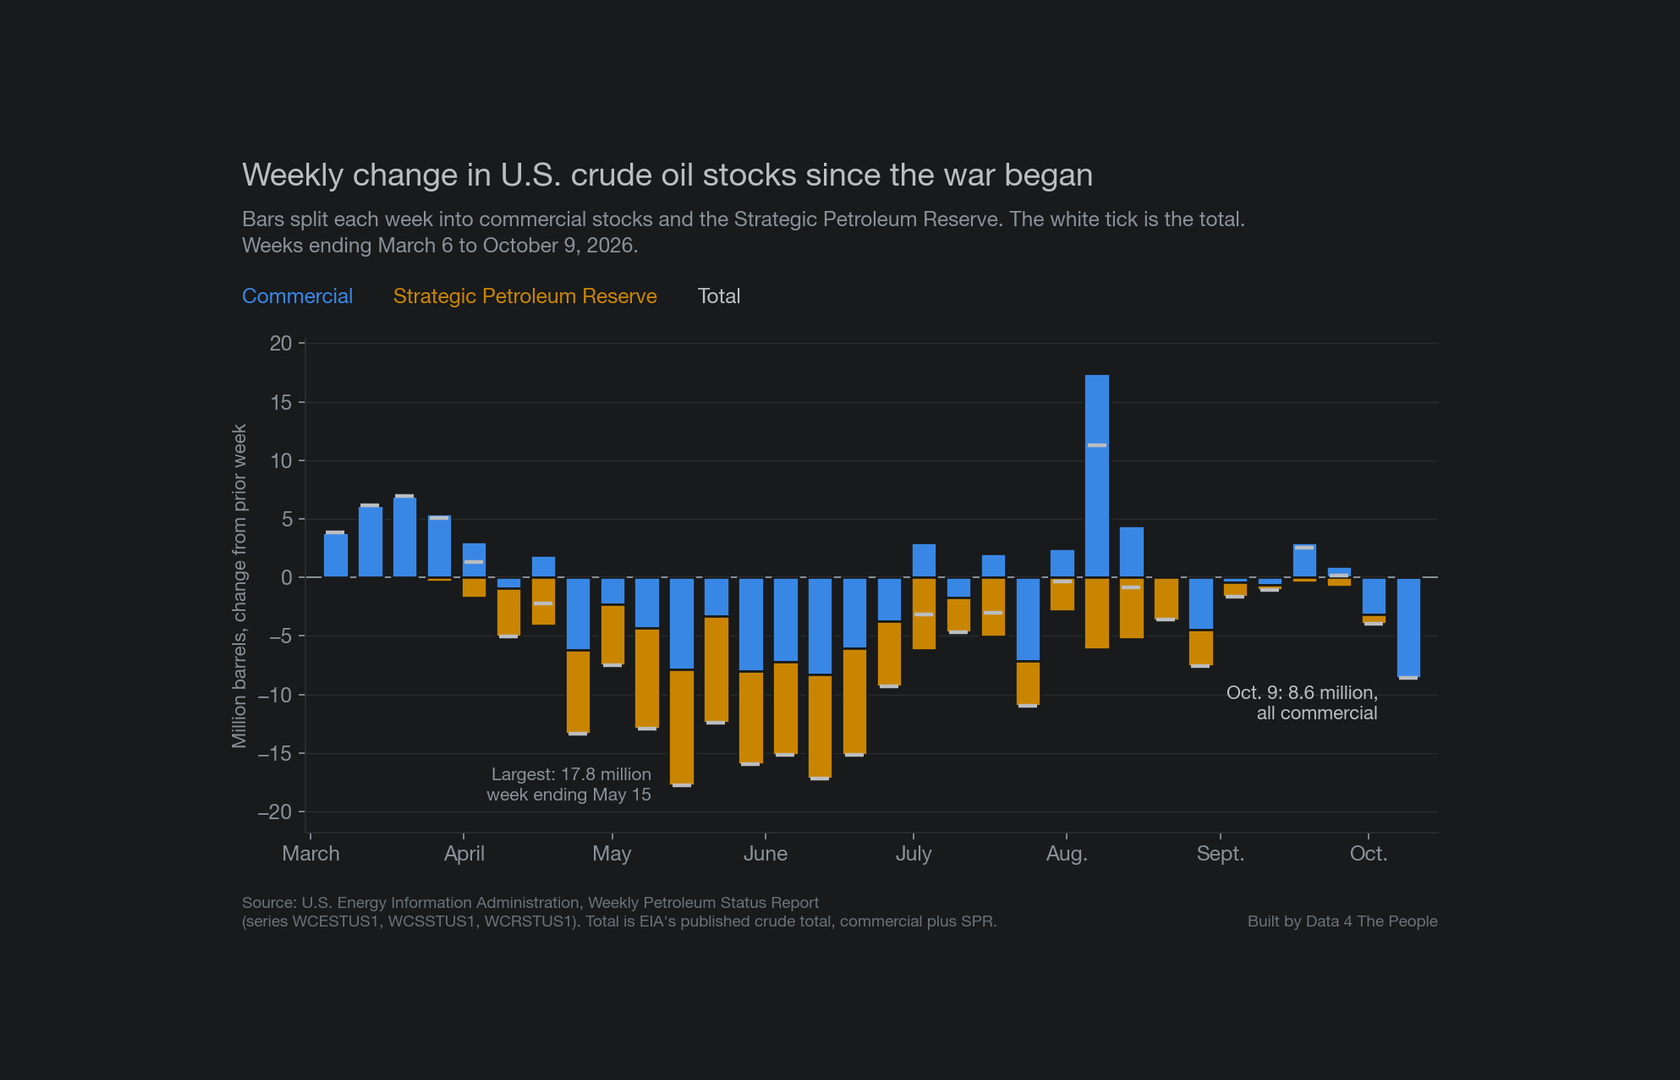
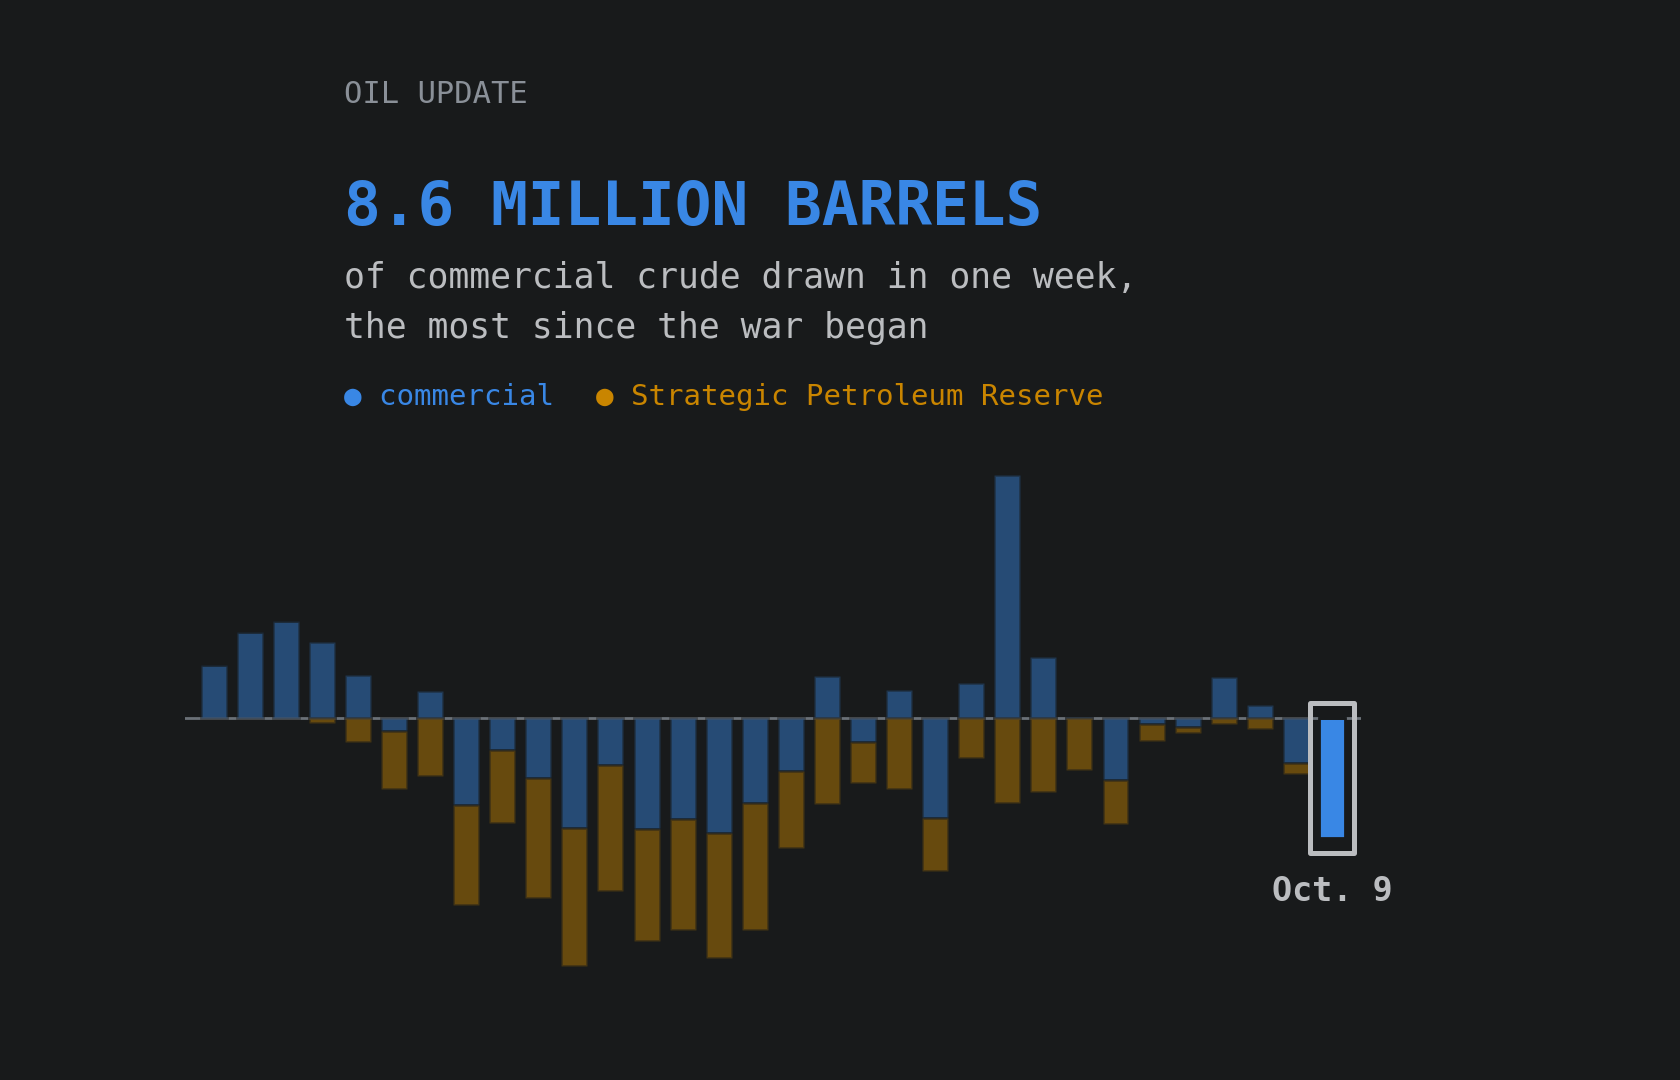
oil-draw-update: hero as its own render, latest week called out

diff --git a/scripts/hero.py b/scripts/hero.py
@@ -1,0 +1,91 @@
+"""Hero for oil-draw-update: the weekly crude draws chart as a picture, not a figure.
+
+Same bars and colors as images/01-weekly-crude-draws.png, but full frame with no axes or
+fine print, and a short lockup on a backing panel inside the crop-safe band (Prismic's
+square crop of a 1680x1080 keeps only x 0.18-0.82). Modeled on the SNAP_Locations
+series heroes (src/analysis/hero.py). Every number is read from the same pull.
+
+    python scripts/hero.py
+"""
+import sys, os
+sys.path.insert(0, os.path.dirname(__file__))
+import pandas as pd
+import matplotlib
+matplotlib.use("Agg")
+import matplotlib.pyplot as plt
+from plot_style import SURFACE, INK, INK_DIM, MUTED
+from weekly_draws import fetch, numbers, WAR_START, COMM, SPR
+
+OUT = "posts/oil-draw-update/images/oil-draw-update-hero-1680x1080.png"
+W_PX, H_PX, DPI = 1680, 1080, 200
+MONO = "DejaVu Sans Mono"
+DIM = 0.45            # earlier weeks recede so this week's bar carries the frame
+
+
+def main():
+    w = fetch()
+    d, n = numbers(w)
+    war = d[d.index > WAR_START] / 1000
+    x = list(range(len(war)))
+    fig = plt.figure(figsize=(W_PX / DPI, H_PX / DPI), dpi=DPI, facecolor=SURFACE)
+    ax = fig.add_axes([0.11, 0.07, 0.70, 0.86])   # right edge at 0.81 keeps the latest bar in the square crop
+    ax.set_facecolor(SURFACE); ax.set_axis_off()
+    pos = [0.0] * len(x); neg = [0.0] * len(x)
+    for col, color in [("commercial", COMM), ("spr", SPR)]:
+        for i, v in enumerate(war[col]):
+            base = neg[i] if v < 0 else pos[i]
+            ax.bar(i, v, width=0.72, bottom=base, color=color, alpha=1 if i == x[-1] else DIM,
+                   edgecolor=SURFACE, linewidth=1.0, zorder=3)
+            if v < 0: neg[i] += v
+            else: pos[i] += v
+    ax.axhline(0, color=MUTED, lw=1, zorder=2)
+    ax.set_xlim(-0.8, x[-1] + 0.8)
+    ax.set_ylim(-20.5, 46)      # headroom: bars sit low, the lockup sits above them with no overlap
+    last = n["total_change"] / 1000
+    ax.add_patch(plt.Rectangle((x[-1] - 0.62, last - 1.1), 1.24, -last + 2.2, fill=False, edgecolor=INK,
+                               lw=1.8, joinstyle="round", zorder=6))
+    ax.annotate("Oct. 9", (x[-1], last - 1.1), xytext=(0, -8), textcoords="offset points", ha="center", va="top",
+                family=MONO, fontsize=12, color=INK, fontweight="bold", zorder=9)
+
+    # lockup: kicker, headline number, what it is, legend; panel fitted to the measured text
+    PT = DPI / 72 / H_PX
+    block = [("OIL UPDATE", 11, INK_DIM, "normal", 1.6),
+             (f"{-last:.1f} MILLION BARRELS", 22, COMM, "bold", 2.0),
+             ("of commercial crude drawn in one week,", 12.5, INK, "normal", 1.8),
+             ("the most since the war began", 12.5, INK, "normal", 1.45),
+             ("legend", 10.5, None, "normal", 2.3)]
+    LX = 0.205
+    height = sum(sz * lead * PT for _, sz, _, _, lead in block)
+    y = 0.95
+    drawn = []
+    for text, size, color, weight, lead in block:
+        y -= size * lead * PT
+        if color is None:      # legend line: two colored words
+            t1 = fig.text(LX, y, "● commercial", family=MONO, fontsize=size, color=COMM, zorder=9)
+            fig.canvas.draw()
+            bb = t1.get_window_extent(fig.canvas.get_renderer())
+            x2 = fig.transFigure.inverted().transform((bb.x1, 0))[0] + 0.025
+            t2 = fig.text(x2, y, "● Strategic Petroleum Reserve", family=MONO, fontsize=size, color=SPR, zorder=9)
+            drawn += [t1, t2]
+        else:
+            drawn.append(fig.text(LX, y, text, family=MONO, fontsize=size, color=color, fontweight=weight, zorder=9))
+    fig.canvas.draw()
+    r = fig.canvas.get_renderer(); inv = fig.transFigure.inverted()
+    boxes = [inv.transform([(b.x0, b.y0), (b.x1, b.y1)]) for b in (t.get_window_extent(r) for t in drawn)]
+    x0 = min(b[0][0] for b in boxes); y0 = min(b[0][1] for b in boxes)
+    x1 = max(b[1][0] for b in boxes); y1 = max(b[1][1] for b in boxes)
+    px = 0.0
+    # the lockup must clear every bar beneath it
+    to_fig = lambda xd, yd: inv.transform(ax.transData.transform((xd, yd)))
+    for i in x:
+        bx, by = to_fig(i, pos[i])
+        if x0 - 0.01 < bx < x1 + 0.01 and by > y0 - 0.02:
+            print(f"note: bar {i} (top y={by:.2f}) runs into the lockup (bottom y={y0:.2f})")
+    if x1 + px > 0.82 or x0 - px < 0.18:
+        print(f"note: text block spans x={x0 - px:.2f} to {x1 + px:.2f}, outside the 0.18-0.82 crop-safe band")
+    fig.savefig(OUT, facecolor=SURFACE, dpi=DPI)
+    print(f"wrote {OUT}; headline {-last:.1f}; commercial rank since war {n['commercial_rank_since_war']}")
+
+
+if __name__ == "__main__":
+    main()

diff --git a/scripts/weekly_draws.py b/scripts/weekly_draws.py
@@ -133,8 +133,12 @@ def chart(d, n, out=OUT_PNG, size=(11, 6.6)):
                 (big, n["largest_total_draw"] / 1000), xytext=(-16, 0), textcoords="offset points",
                 ha="right", va="center", color=INK_DIM, fontsize=9.5, linespacing=1.3)
     last = x[-1]
+    # call out the latest week: an outline around its bar
+    ax.add_patch(plt.Rectangle((last - pd.Timedelta(days=4.6), n["total_change"] / 1000 - 0.9), pd.Timedelta(days=9.2),
+                               -n["total_change"] / 1000 + 1.8, fill=False, edgecolor=INK, lw=1.6,
+                               joinstyle="round", zorder=5))
     ax.annotate(f'Oct. 9: {-n["total_change"]/1000:.1f} million,\nall commercial',
-                (last, n["total_change"] / 1000), xytext=(-16, -4), textcoords="offset points",
+                (last, n["total_change"] / 1000), xytext=(-22, -4), textcoords="offset points",
                 ha="right", va="top", color=INK, fontsize=10, fontweight="bold", linespacing=1.3)
     ax.set_ylim(min(-21, war.total.min() - 4), max(war[["commercial"]].max().max(), 8) + 3)
     titleblock(fig, "Weekly change in U.S. crude oil stocks since the war began",
@@ -157,6 +161,4 @@ if __name__ == "__main__":
     pd.concat([w, d.add_suffix("_chg")], axis=1).loc["2025-12-01":].to_csv("data/weekly_draws.csv", float_format="%.0f")
     json.dump(n, open("data/weekly_draws_numbers.json", "w"), indent=1, default=float)
     chart(d, n)
-    # hero source: same chart on a smaller canvas so type stays legible once padded to 1680x1080
-    chart(d, n, out="posts/oil-draw-update/images/oil-draw-update-hero-source.png", size=(9.4, 6.0))
     print(json.dumps(n, indent=1, default=float))

diff --git a/posts/oil-draw-update/POST.md b/posts/oil-draw-update/POST.md
@@ -5,7 +5,7 @@ slug: oil-draw-update
 date: 2026-10-16
 section: Data 4 Thought
 hero: images/oil-draw-update-hero-1680x1080.png
-hero_alt: Bar chart titled Weekly change in U.S. crude oil stocks since the war began, weeks ending March 6 to October 9, 2026, in million barrels. Each weekly bar is split into commercial stocks in blue and the Strategic Petroleum Reserve in gold, with a white tick for the total. Large gold draws fill May and June, led by a 17.8 million barrel drop in the week ending May 15. The last bar, October 9, is an 8.6 million barrel drop, all commercial.
+hero_alt: Headline in blue reads 8.6 million barrels, of commercial crude drawn in one week, the most since the war began, under a small label reading Oil Update. Below it, a bar chart of weekly changes in U.S. crude oil stocks since March, split into commercial stocks in blue and the Strategic Petroleum Reserve in gold. Earlier weeks are dimmed, with deep gold draws in May and June. The last bar, October 9, is bright blue and outlined.
 meta_title:
 description:
 keywords:
@@ -30,7 +30,7 @@ U.S. crude oil stocks fell 8.6 million barrels last week. That figure combines t
 
 It was not the largest drop in total crude, though. The chart below shows the weekly change in both parts since the war began.
 
-![Bar chart titled Weekly change in U.S. crude oil stocks since the war began, for the 32 weeks ending March 6 to October 9, 2026, in million barrels. Each bar is split into commercial stocks in blue and the Strategic Petroleum Reserve in gold, with a white tick for the total. Large gold draws fill May and June; the largest total draw is 17.8 million barrels in the week ending May 15. The last bar, October 9, is a blue-only draw of 8.6 million barrels.](images/01-weekly-crude-draws.png)
+![Bar chart titled Weekly change in U.S. crude oil stocks since the war began, for the 32 weeks ending March 6 to October 9, 2026, in million barrels. Each bar is split into commercial stocks in blue and the Strategic Petroleum Reserve in gold, with a white tick for the total. Large gold draws fill May and June; the largest total draw is 17.8 million barrels in the week ending May 15. The last bar, October 9, is outlined: a blue-only draw of 8.6 million barrels.](images/01-weekly-crude-draws.png)
 *Weekly change in U.S. crude oil stocks, commercial and Strategic Petroleum Reserve, weeks ending March 6 to October 9, 2026. Source: EIA Weekly Petroleum Status Report.*
 
 The biggest weeks came in May and June, when the SPR was releasing the most oil. The largest was the week ending May 15, when total stocks fell 17.8 million barrels, and 56% of that came from the reserve. Last week ranks 11th of the 32 weeks since the war began. It was the largest total drop since the week ending July 24.

diff --git a/STATUS.md b/STATUS.md
@@ -41,3 +41,4 @@ None.
 - 2026-10-16 Eric confirmed 2b. Step 2c opened.
 - 2026-10-16 2c: defaults only, no fences needed (no embeds; divider already above About the data). Importer convert-only: 37 blocks, 19 slices, 3 images, divider once. Hero warnings expected until 2d.
 - 2026-10-16 2d: hero from the crude draws chart (Eric's choice). scripts/weekly_draws.py now also renders the chart on a 9.4x6.0 in canvas (images/oil-draw-update-hero-source.png) so type stays legible, padded by hero pad to images/oil-draw-update-hero-1680x1080.png. Legend and plot top now placed in inches, which also re-spaced the in-post chart (layout only, same data). hero_alt 440 characters. hero check and importer: no warnings.
+- 2026-10-16 2d redone at Eric's request: hero is now its own render (scripts/hero.py), modeled on the SNAP_Locations series heroes: no axes or fine print, earlier weeks dimmed, the October 9 bar bright and outlined, lockup (Oil Update / 8.6 MILLION BARRELS / of commercial crude drawn in one week, the most since the war began / legend) above the bars, all inside the 0.18-0.82 square-crop band. Padded-chart hero source removed. The in-post crude chart also outlines the October 9 bar (Eric's suggestion). hero_alt rewritten (420 characters).
